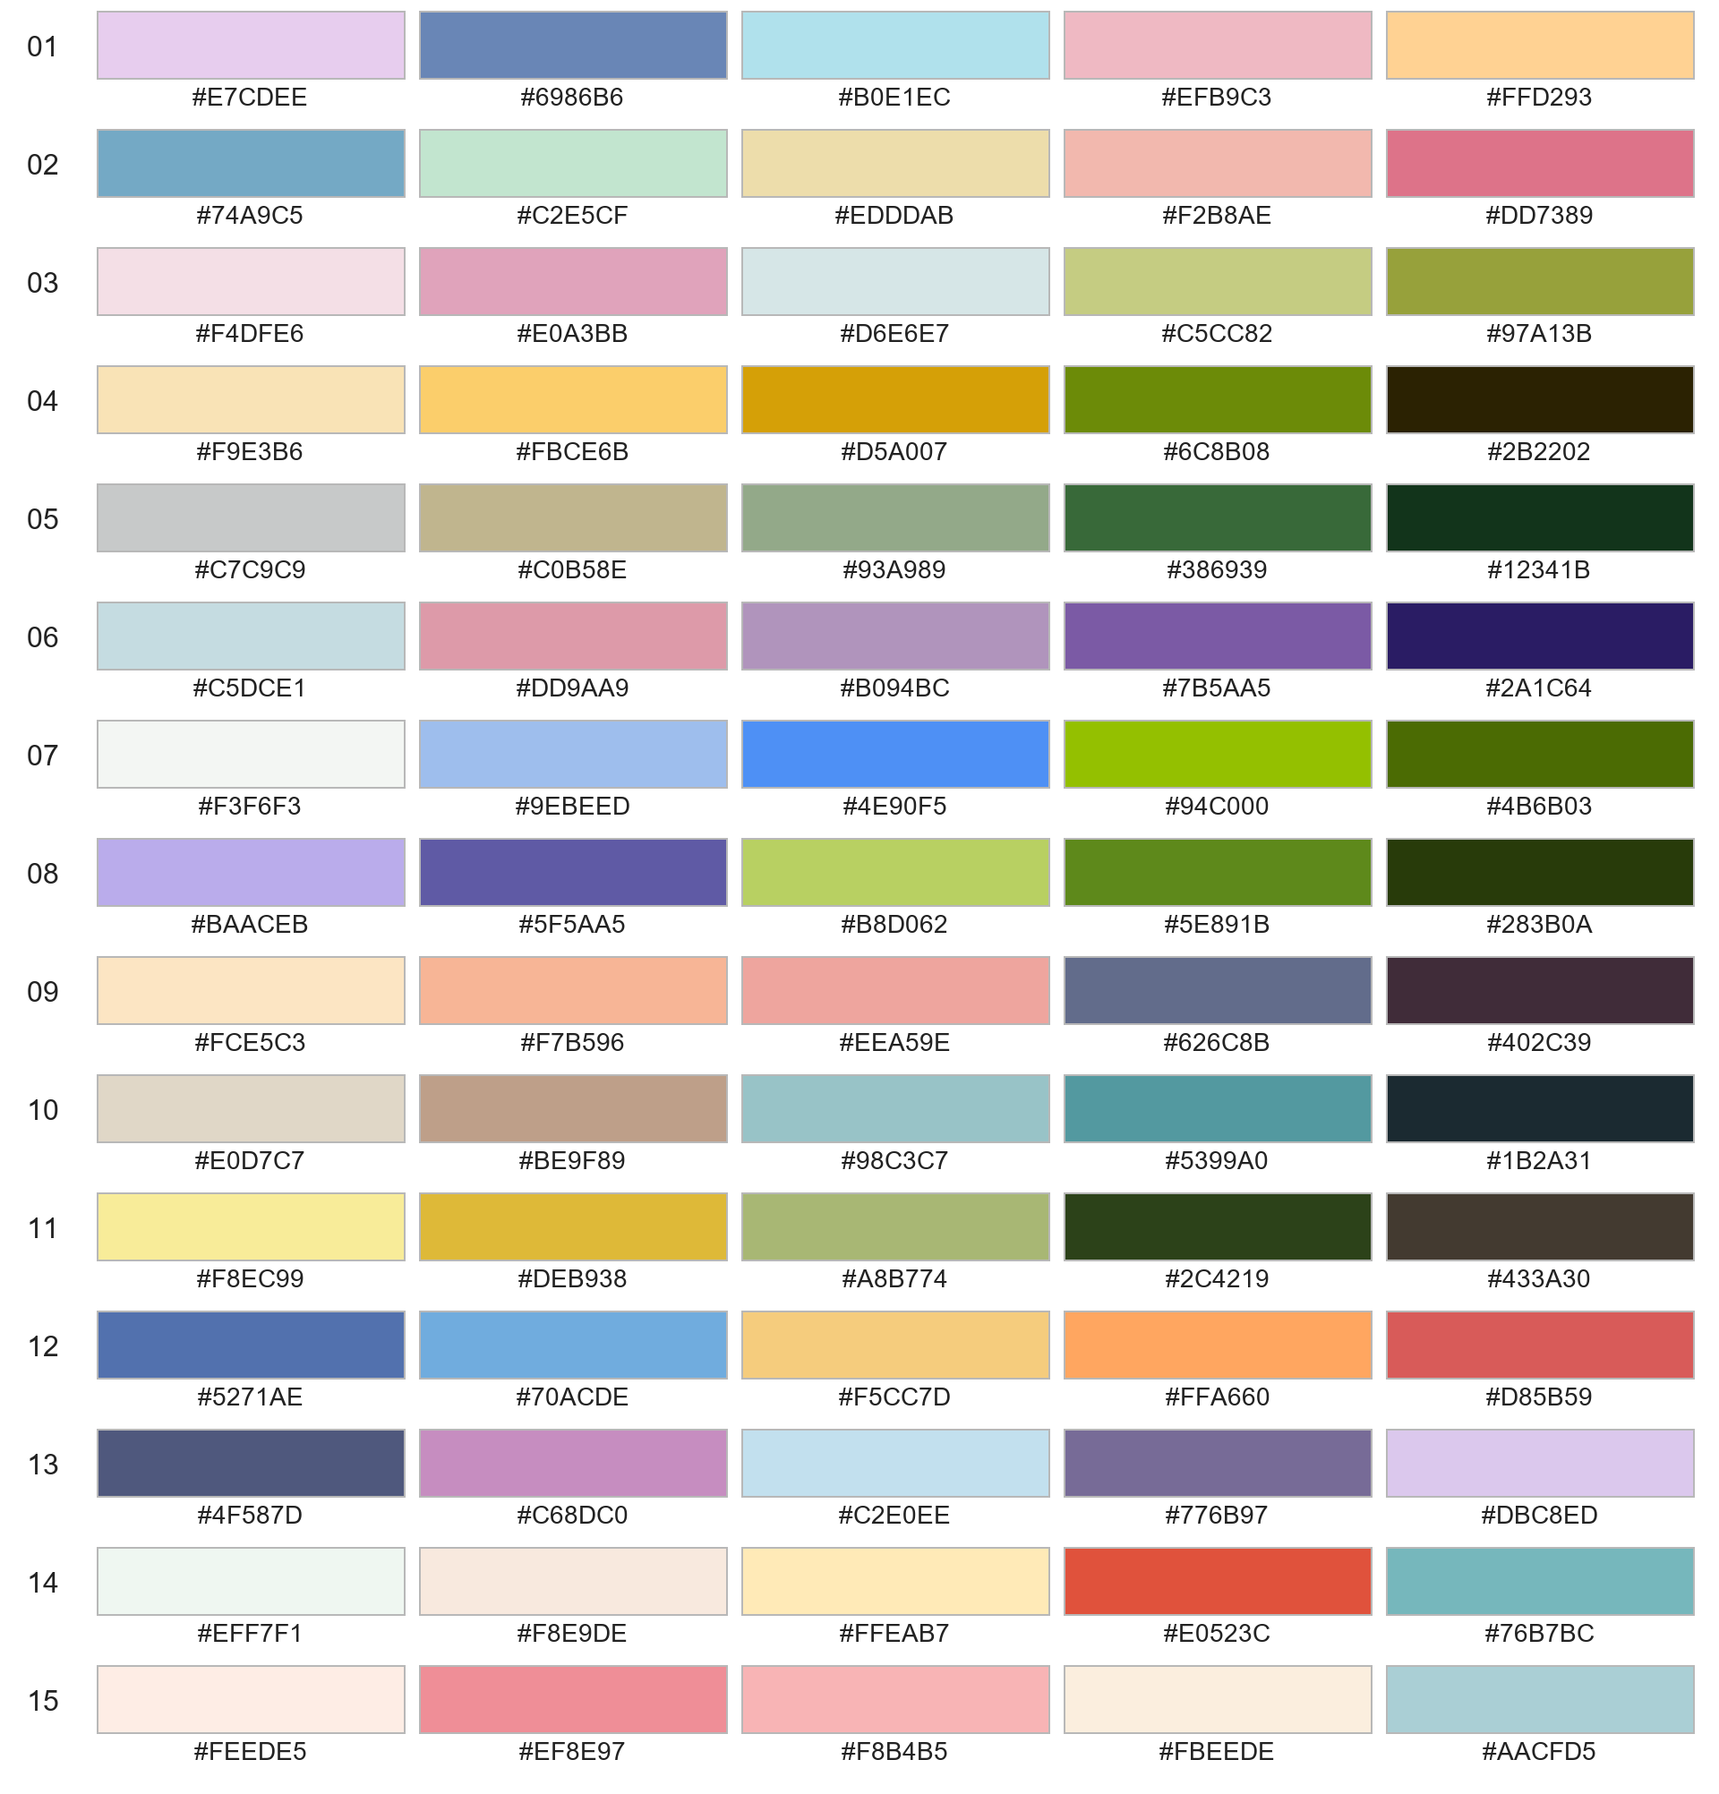
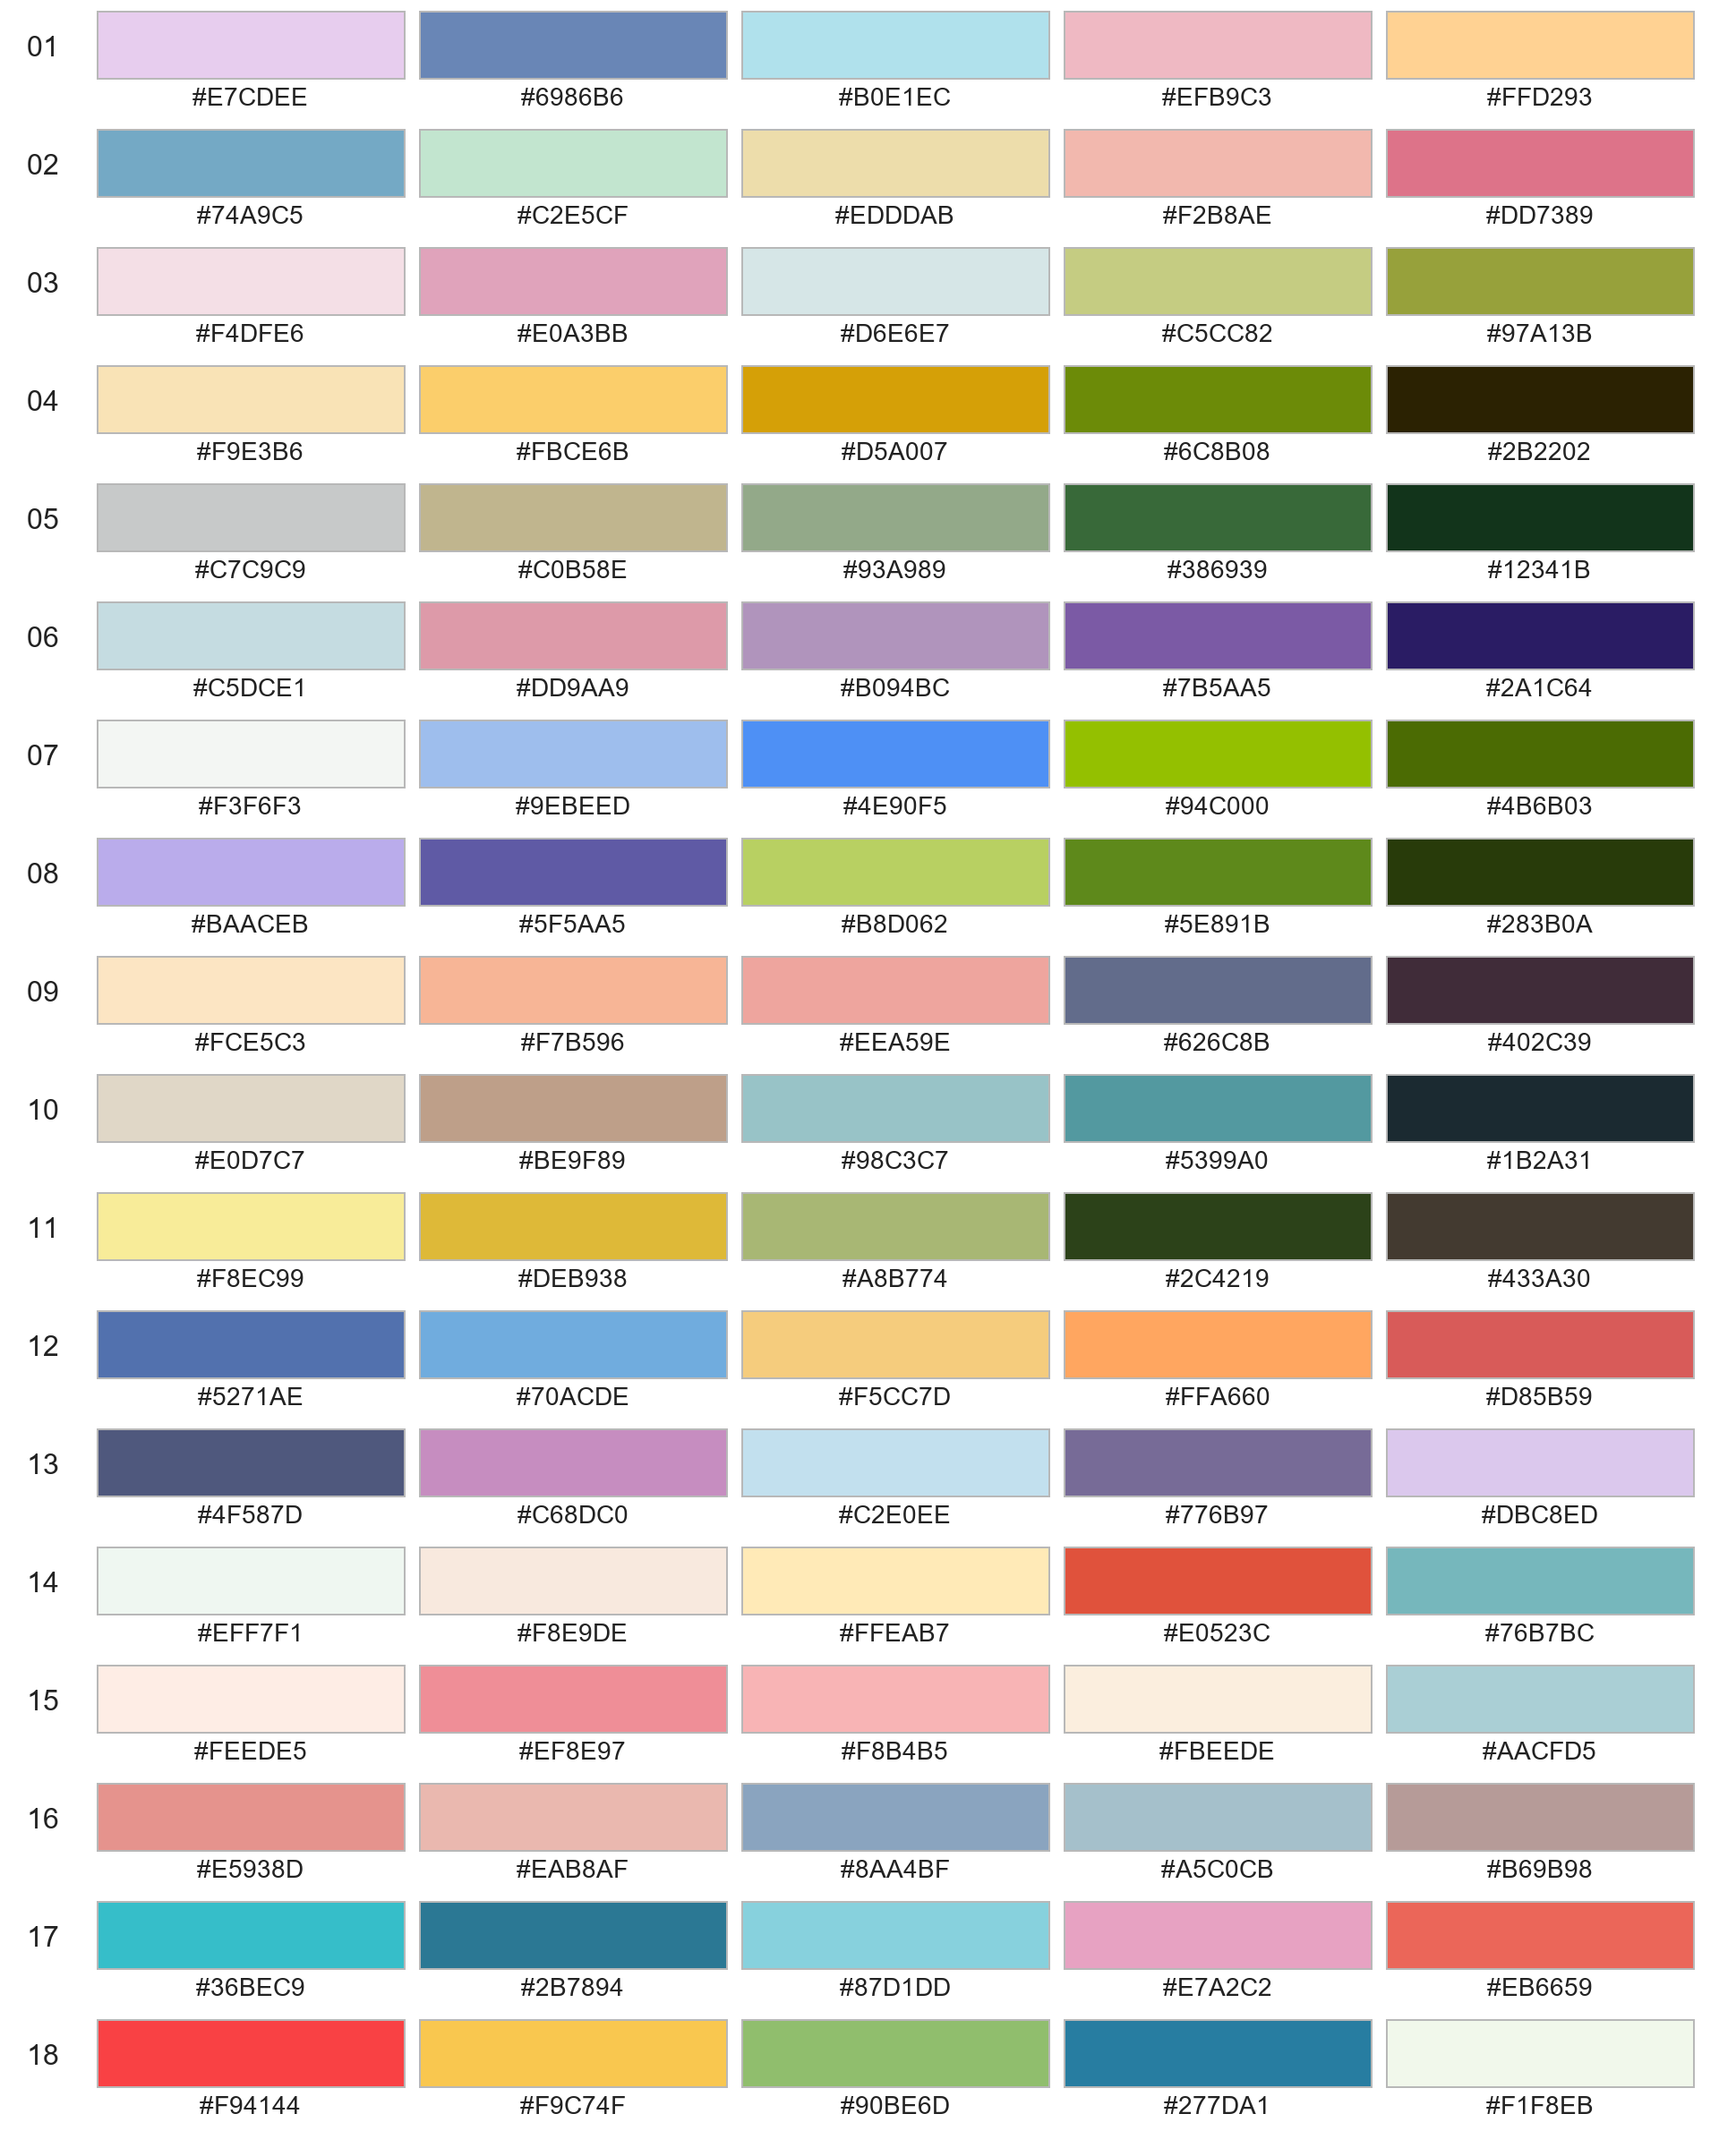
Add 7 palettes and skip 3 duplicate groups

diff --git a/figures/palettes.md b/figures/palettes.md
@@ -28,9 +28,9 @@
 | 02 | #90A4C4 #ADC9E4 #C0D8E8 #DBDDEF #EBF0FC #FCEDE9 #F7DAD4 #F5C9B6 #F3B8AC #F29F95 |
 | 03 | #A15860 #CE7373 #C79773 #EBBF9E #D2D2D2 #ACCED2 #CDE1BD #8DB08D #689CA1 #567394 |
 
-## 8 色 · 7 组
+## 8 色 · 8 组
 
-![8 色 · 7 组配色实例](previews/8-colors.png)
+![8 色 · 8 组配色实例](previews/8-colors.png)
 
 | ID | HEX |
 |---|---|
@@ -41,6 +41,7 @@
 | 05 | #B52D8F #842D91 #D43D91 #E16C5A #ED824B #F4A33D #FACE27 #F3E518 |
 | 06 | #5BB0BA #7FC7CC #B4E1E6 #FF947F #FFB0A3 #FFD0A2 #FFDEBC #FFEEDD |
 | 07 | #FCE8E6 #FFC6BC #F8B9B8 #FFADA2 #D6DFEF #A5CDE2 #5FA3CB #668FCA |
+| 08 | #655675 #9382A3 #C0B3CD #E4DCEB #A96F80 #CF9CAA #E8C9CE #A7B6A1 |
 
 ## 7 色 · 8 组
 
@@ -57,9 +58,9 @@
 | 07 | #2F4F4F #A7BDB1 #D8C49A #A0522D #1E3A5F #F2F0EB #D4AF37 |
 | 08 | #EFA8D2 #F6C8E1 #FDEBF5 #FFFFFF #BFE7E1 #78C6BE #3FA79E |
 
-## 6 色 · 7 组
+## 6 色 · 10 组
 
-![6 色 · 7 组配色实例](previews/6-colors.png)
+![6 色 · 10 组配色实例](previews/6-colors.png)
 
 | ID | HEX |
 |---|---|
@@ -70,10 +71,13 @@
 | 05 | #E5A08A #F0C0A8 #EBD8C4 #C8D0D0 #B2CDD8 #D2E8EE |
 | 06 | #A64036 #F0C2A2 #4182A4 #354E6B #FAEBDF #D8E4EE |
 | 07 | #053553 #166CA6 #3EAAD0 #EFE1C4 #CFB57A #B88842 |
+| 08 | #83B9D9 #195D94 #F6B596 #B22233 #F0BB5B #E8E1D8 |
+| 09 | #845EC2 #D65DB1 #FF6F91 #FF9671 #FFC75F #F9F871 |
+| 10 | #FF696A #A6D0DE #E7F6F3 #FFD3B0 #C7D3E8 #FDE3E3 |
 
-## 5 色 · 15 组
+## 5 色 · 18 组
 
-![5 色 · 15 组配色实例](previews/5-colors.png)
+![5 色 · 18 组配色实例](previews/5-colors.png)
 
 | ID | HEX |
 |---|---|
@@ -92,6 +96,9 @@
 | 13 | #4F587D #C68DC0 #C2E0EE #776B97 #DBC8ED |
 | 14 | #EFF7F1 #F8E9DE #FFEAB7 #E0523C #76B7BC |
 | 15 | #FEEDE5 #EF8E97 #F8B4B5 #FBEEDE #AACFD5 |
+| 16 | #E5938D #EAB8AF #8AA4BF #A5C0CB #B69B98 |
+| 17 | #36BEC9 #2B7894 #87D1DD #E7A2C2 #EB6659 |
+| 18 | #F94144 #F9C74F #90BE6D #277DA1 #F1F8EB |
 
 ## 4 色 · 2 组
 

diff --git a/figures/README.md b/figures/README.md
@@ -5,6 +5,6 @@
 | 文档 | 内容 |
 | --- | --- |
 | [工具](tools.md) | polish-sci-figures、scientific-illustrator 的仓库入口与用途 |
-| [配色](palettes.md) | 全部 81 组配色实例与 HEX，按颜色数量分组，保留 ID 和原始顺序 |
+| [配色](palettes.md) | 全部 88 组配色实例与 HEX，按颜色数量分组，保留 ID 和原始顺序 |
 
 [返回仓库 README](../README.md)
